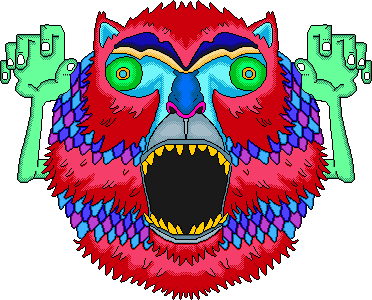
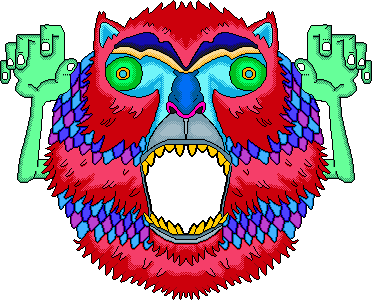
Swapped in god of thieves, ++GLITCH++ spewing heads from mouth.

Changed region(s): [[0.3844, 0.48, 0.621, 0.78]]

diff --git a/src/PhysicsObject.cpp b/src/PhysicsObject.cpp
@@ -83,17 +83,32 @@ void PhysicsObject::updateActive() {
 
 void PhysicsObject::updateExploding() {
 	emitter->update();
+
+	// We're done exploding - switch back to normal
 	if( emitter->isDead ) {
 		setState( ACTIVE, updateState );
+		_body->SetActive( true );
+		_radius = ci::box2d::Conversions::toScreen( _body->GetFixtureList()->GetShape()->m_radius );
+		setBody( _body );
+		std::cout << "Resetting radius: " << _radius << std::endl;
 		emitter->clear();
+	} else {
+		_radius = _deathRadius;
 	}
+
 	_body->SetTransform( Conversions::toPhysics(_deathPosition), 0);
 	faceCenter();
 }
 
 void PhysicsObject::beginDeath() {
 
+	// No physics
+	_body->SetActive( false );
+
 	ci::Vec2f screenPosition = ci::box2d::Conversions::toScreen( _body->GetPosition() ); // Store before resetting
+
+	// Store screenpos before its changed
+	_deathPosition = ci::Anim<ci::Vec2f>( screenPosition );
 
 	setState( EXPLODING, updateState );
 	reset();
@@ -134,8 +149,11 @@ void PhysicsObject::beginDeath() {
 	//////////////////////////////////////////////////
 	////////// Animate the head to the planet
 	//////////////////////////////////////////////////
-	// X, Y
-	ci::app::App::get()->timeline().apply( &_deathPosition, (ci::Vec2f)ci::app::App::get()->getWindowCenter() , 2.0f, EaseInCubic() );
+	float timing = ci::Rand::randFloat(0.25f, 1.0f);
+	ci::Vec2f to = (ci::Vec2f)ci::app::App::get()->getWindowCenter();
+	to.y += 50;
+	ci::app::App::get()->timeline().apply( &_deathPosition, to , timing, EaseInBack() );
+	ci::app::App::get()->timeline().apply( &_deathRadius, _radius*0.1f, timing/2.0f, EaseInBack() );
 }
 
 void PhysicsObject::applyRadialGravity( b2Vec2 center ) {

diff --git a/src/NeruSphereApp.cpp b/src/NeruSphereApp.cpp
@@ -125,8 +125,8 @@ void NeruSphereApp::setupGUI() {
 
 	_gui->addColumn();
 	_gui->addLabel("HEADS");
-	_gui->addParam("MIN_LIFETIME", &Constants::Heads::MIN_LIFETIME, 400, 5000, Constants::Heads::MIN_LIFETIME );
-	_gui->addParam("MAX_LIFETIME", &Constants::Heads::MAX_LIFETIME, 400, 5000, Constants::Heads::MAX_LIFETIME );
+	_gui->addParam("MIN_LIFETIME", &Constants::Heads::MIN_LIFETIME, 50, 5000, Constants::Heads::MIN_LIFETIME );
+	_gui->addParam("MAX_LIFETIME", &Constants::Heads::MAX_LIFETIME, 100, 5000, Constants::Heads::MAX_LIFETIME );
 	_gui->addParam("MAX_SPEED", &Constants::Heads::MAX_SPEED, Constants::Heads::MAX_SPEED * 0.1, Constants::Heads::MAX_SPEED*Constants::Heads::MAX_SPEED, Constants::Heads::MAX_SPEED );
 	_gui->addParam("PERLIN_STRENGTH", &Constants::Heads::PERLIN_STRENGTH, 0, 20, Constants::Heads::PERLIN_STRENGTH );
 	_gui->addParam("GRAVITY_DISTANCE", &Constants::Heads::MIN_GRAVITY_DISTANCE, ci::math<float>::pow(50,2), ci::math<float>::pow(50.0,3), Constants::Heads::MIN_GRAVITY_DISTANCE );

diff --git a/src/PhysicsObject.h b/src/PhysicsObject.h
@@ -78,6 +78,7 @@ class PhysicsObject
 
 		// Death related vars
 		ci::Anim<ci::Vec2f> _deathPosition; // Used to animate
+		ci::Anim<float> _deathRadius; // Used to animate
 };
 
 #endif /* PHYSICSOBJECT_H_ */
